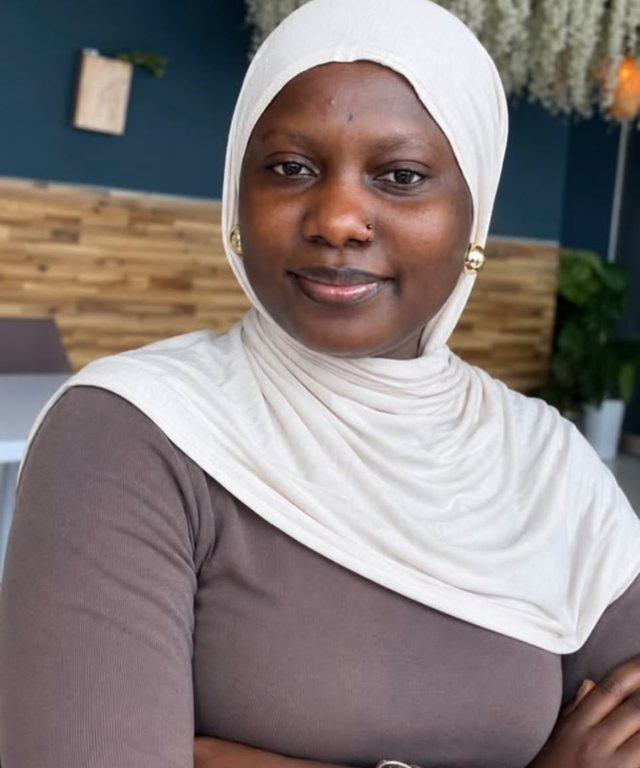
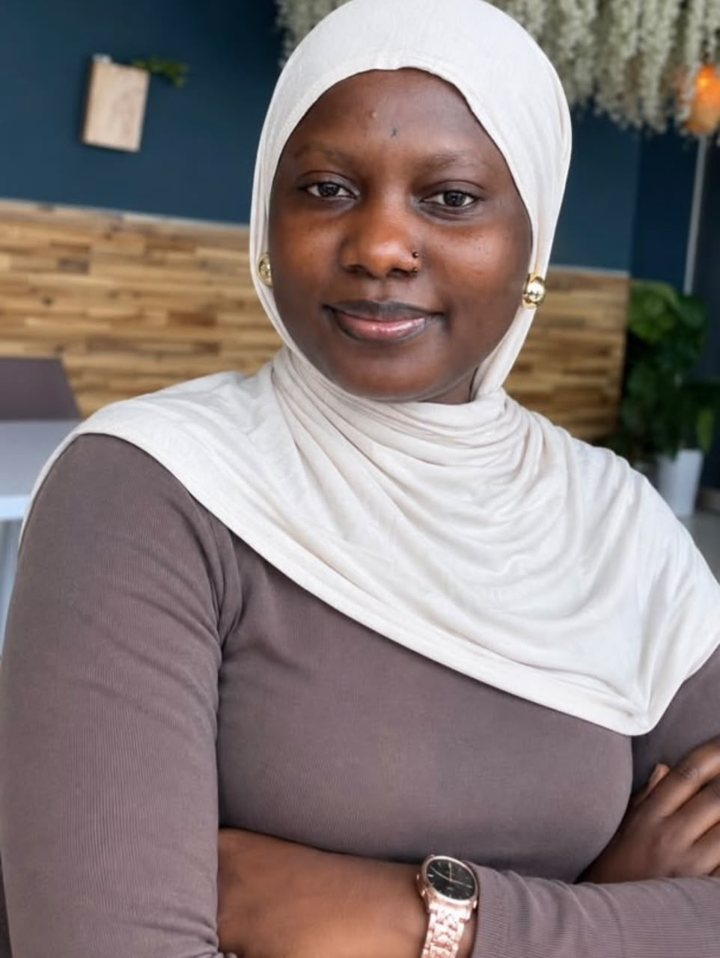
Add files via upload

diff --git a/index.html b/index.html
@@ -41,9 +41,9 @@ nav ul{display:flex;flex-wrap:wrap;gap:4px 20px;list-style:none;margin:0;padding
 nav a{color:var(--fg);text-decoration:none;font-size:15px}
 nav a:hover{color:var(--blue)}
 
-header.hero{padding-block:56px 48px;display:grid;grid-template-columns:minmax(0,1fr) 260px;gap:40px;align-items:center}
+header.hero{padding-block:56px 48px;display:grid;grid-template-columns:minmax(0,1fr) 280px;gap:40px;align-items:center}
 .hero-text{display:grid;gap:20px;min-width:0}
-.portrait{width:100%;max-width:100%;aspect-ratio:5/6;object-fit:cover;border-radius:14px;border:1px solid var(--line);box-shadow:10px 10px 0 var(--tint)}
+.portrait{width:100%;max-width:100%;aspect-ratio:3/4;object-fit:cover;object-position:top;border-radius:14px;border:1px solid var(--line);box-shadow:10px 10px 0 var(--tint)}
 .eyebrow{font-family:var(--mono);font-size:13px;letter-spacing:.06em;text-transform:uppercase;color:var(--green)}
 h1{font-family:var(--display);font-weight:700;font-size:clamp(40px,7vw,68px);line-height:1.02;letter-spacing:-.02em;margin:0;text-wrap:balance}
 .lede{font-size:20px;color:var(--muted);max-width:60ch;margin:0}
@@ -139,7 +139,7 @@ footer{border-top:1px solid var(--line);padding-block:28px 40px;font-size:14px;c
       <a class="btn" href="https://github.com/ChristianaLebbie" target="_blank" rel="noopener">GitHub</a>
     </div>
     </div>
-    <img class="portrait" src="photo.jpg" alt="Portrait of Christiana Lebbie" width="640" height="768">
+    <img class="portrait" src="photo.jpg" alt="Portrait of Christiana Lebbie" width="720" height="958">
   </header>
 
   <dl class="facts">
